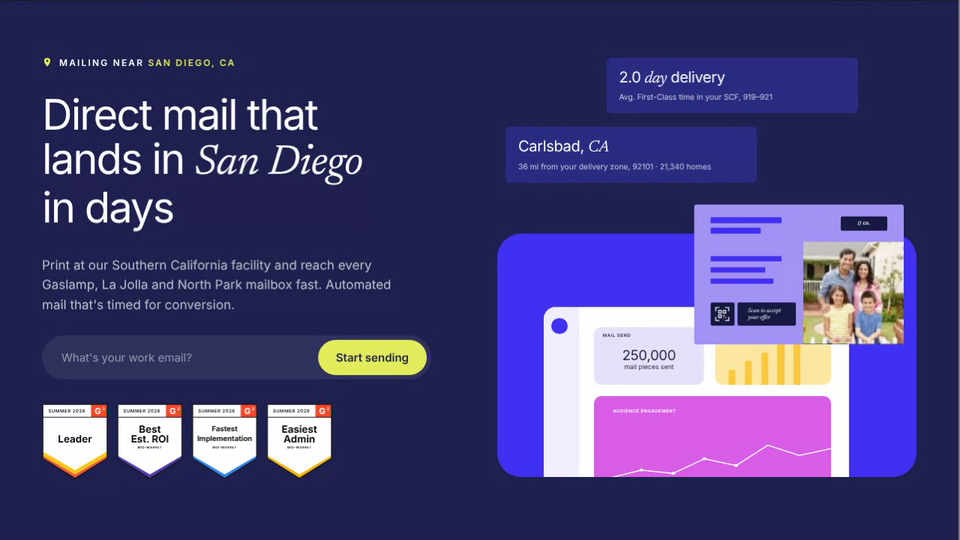
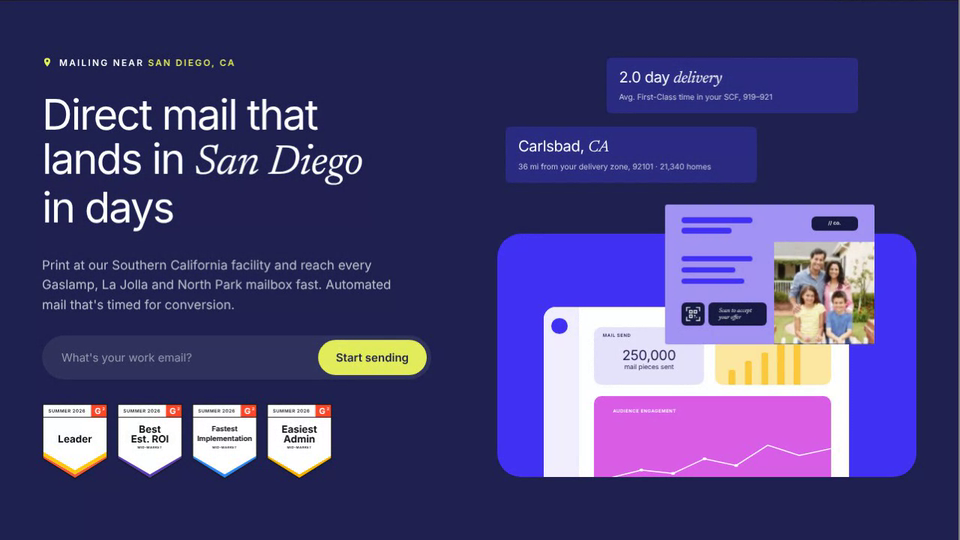
Location Hero: rounded postcard blocks, postcard left, italic delivery
Claude-Session: https://claude.ai/code/session_01AHeBdxeACcd88pkrxSw1Hy

Changed region(s): [[0.6875, 0.3556, 0.9688, 0.6519], [0.6562, 0.1185, 0.75, 0.1778]]

diff --git a/location-hero/index.html b/location-hero/index.html
@@ -57,14 +57,14 @@ h1 i{font-family:var(--serif);font-style:italic;letter-spacing:-.01em}
 .t2 i{position:absolute;bottom:0;width:6%;background:var(--yel2);border-radius:3px 3px 0 0}
 .t3{left:16.5%;top:40%;width:77.5%;height:60%;background:var(--pink)}
 .t3 svg{position:absolute;left:0;top:22%;width:100%;height:42%}
-.mail{position:absolute;left:47%;top:35%;width:50%;aspect-ratio:1.5;border-radius:3px;overflow:hidden}
+.mail{position:absolute;left:40%;top:35%;width:50%;aspect-ratio:1.5;border-radius:3px;overflow:hidden}
 .pc{position:absolute;inset:0;background:#a393f5}
 .el{position:absolute}
-.bar{background:var(--purple);border-radius:1px}
-.tag{background:var(--deep);color:#fff;border-radius:2px;font:600 1.2cqw/1 var(--sans);display:flex;align-items:center;justify-content:center}
-.qr{background:var(--deep);border-radius:2px;display:grid;place-items:center}
+.bar{background:var(--purple);border-radius:99px}
+.tag{background:var(--deep);color:#fff;border-radius:6px;font:600 1.2cqw/1 var(--sans);display:flex;align-items:center;justify-content:center}
+.qr{background:var(--deep);border-radius:6px;display:grid;place-items:center}
 .qr svg{width:66%;height:66%}
-.scan{background:var(--deep);color:#fff;border-radius:2px;font:italic 400 1.4cqw/1.15 var(--serif);display:flex;align-items:center;padding:0 5%}
+.scan{background:var(--deep);color:#fff;border-radius:6px;font:italic 400 1.4cqw/1.15 var(--serif);display:flex;align-items:center;padding:0 5%}
 .ph{object-fit:cover;border-radius:0}
 @media(max-width:900px){.hero{grid-template-columns:1fr;padding:24px 20px 28px}.stage{justify-self:center}.sub{min-height:0}h1{white-space:normal}}
 @media(prefers-reduced-motion:reduce){.sw,.bl{transition:none}}
@@ -109,10 +109,10 @@ h1 i{font-family:var(--serif);font-style:italic;letter-spacing:-.01em}
 <script>
 const CITIES=[
  {city:'San Diego, CA',h:'Direct mail that<br>lands in <i>San Diego</i><br>in days',sub:"Print at our Southern California facility and reach every Gaslamp, La Jolla and North Park mailbox fast. Automated mail that's timed for conversion.",
-  b1:['USPS mailing data','2.0 <i>day</i> delivery','Avg. First-Class time in your SCF, 919–921'],
+  b1:['USPS mailing data','2.0 day <i>delivery</i>','Avg. First-Class time in your SCF, 919–921'],
   b2:['Your print location','Carlsbad, <i>CA</i>','36 mi from your delivery zone, 92101 · 21,340 homes']},
  {city:'Miami, FL',h:'Direct mail that<br>lands in <i>Miami</i><br>in days',sub:"Print at our Florida facility and reach every Brickell, Wynwood and Coral Gables mailbox fast. Automated mail that's timed for conversion.",
-  b1:['USPS mailing data','2.3 <i>day</i> delivery','Avg. First-Class time in your SCF, 331–332'],
+  b1:['USPS mailing data','2.3 day <i>delivery</i>','Avg. First-Class time in your SCF, 331–332'],
   b2:['Your print location','Orlando, <i>FL</i>','235 mi from your delivery zone, 33131 · 24,760 homes']}];
 const $=id=>document.getElementById(id);
 // G2 style badges
